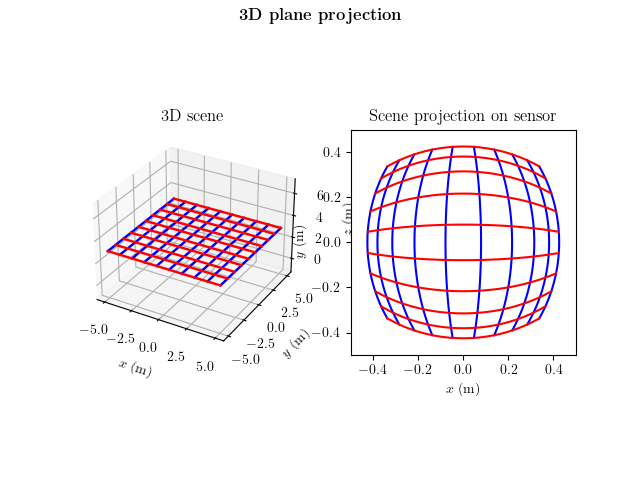
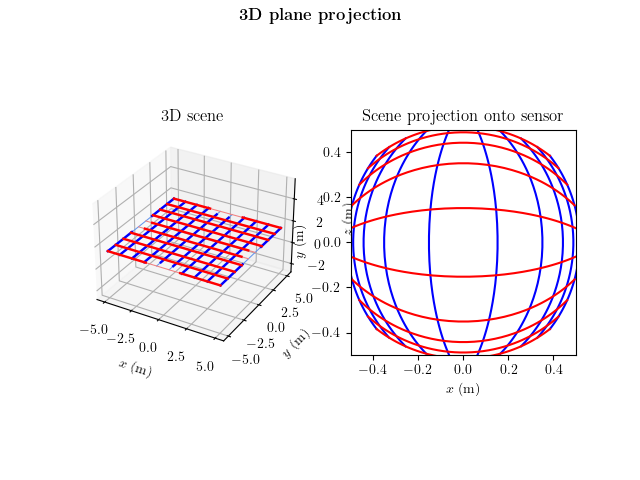
[DEVMINOR] fix typo

diff --git a/sicali/camera_model.py b/sicali/camera_model.py
@@ -266,7 +266,7 @@ class CameraModel:
             ax_scene.set_ylabel(r"$y$ (m)")
             ax_scene.set_zlabel(r"$z$ (m)")
 
-            ax_proj.set_title(r"Scene projection on sensor")
+            ax_proj.set_title(r"Scene projection onto sensor")
             ax_proj.set_xlabel(r"$x$ (m)")
             ax_proj.set_ylabel(r"$y$ (m)")
         else:
@@ -277,7 +277,7 @@ class CameraModel:
             ax_scene.set_ylabel(f"y (m)")
             ax_scene.set_zlabel(f"z (m)")
 
-            ax_proj.set_title(f"Scene projection on sensor")
+            ax_proj.set_title(f"Scene projection onto sensor")
             ax_proj.set_xlabel(f"x (m)")
             ax_proj.set_ylabel(f"y (m)")
 
@@ -417,7 +417,7 @@ class CameraModel:
             ax_scene.set_ylabel(r"$y$ (m)")
             ax_scene.set_zlabel(r"$z$ (m)")
 
-            ax_proj.set_title(r"Scene projection on sensor")
+            ax_proj.set_title(r"Scene projection onto sensor")
             ax_proj.set_xlabel(r"$x$ (m)")
             ax_proj.set_ylabel(r"$y$ (m)")
         else:
@@ -428,7 +428,7 @@ class CameraModel:
             ax_scene.set_ylabel(f"y (m)")
             ax_scene.set_zlabel(f"z (m)")
 
-            ax_proj.set_title(f"Scene projection on sensor")
+            ax_proj.set_title(f"Scene projection onto sensor")
             ax_proj.set_xlabel(f"x (m)")
             ax_proj.set_ylabel(f"y (m)")
 
@@ -607,7 +607,7 @@ class CameraModel:
             ax_scene.set_ylabel(r"$y$ (m)")
             ax_scene.set_zlabel(r"$z$ (m)")
 
-            ax_proj.set_title(r"Scene projection on sensor")
+            ax_proj.set_title(r"Scene projection onto sensor")
             ax_proj.set_xlabel(r"$x$ (m)")
             ax_proj.set_ylabel(r"$y$ (m)")
         else:
@@ -618,7 +618,7 @@ class CameraModel:
             ax_scene.set_ylabel(f"y (m)")
             ax_scene.set_zlabel(f"z (m)")
 
-            ax_proj.set_title(f"Scene projection on sensor")
+            ax_proj.set_title(f"Scene projection onto sensor")
             ax_proj.set_xlabel(f"x (m)")
             ax_proj.set_ylabel(f"y (m)")
 
@@ -720,7 +720,7 @@ class CameraModel:
             ax_sensor.set_xlabel(r"$x$ (m)")
             ax_sensor.set_ylabel(r"$y$ (m)")
 
-            ax_prop.set_title(r"Pixel grid retro-projection on a sphere")
+            ax_prop.set_title(r"Pixel grid retro-projection onto a sphere")
             ax_prop.set_xlabel(r"$x$ (m)")
             ax_prop.set_ylabel(r"$y$ (m)")
             ax_prop.set_zlabel(r"$z$ (m)")
@@ -731,7 +731,7 @@ class CameraModel:
             ax_sensor.set_xlabel(f"x (m)")
             ax_sensor.set_ylabel(f"y (m)")
 
-            ax_prop.set_title(f"Pixel grid retro-projection on a sphere")
+            ax_prop.set_title(f"Pixel grid retro-projection onto a sphere")
             ax_prop.set_xlabel(f"x (m)")
             ax_prop.set_ylabel(f"y (m)")
             ax_prop.set_zlabel(f"z (m)")

diff --git a/sicali/lens_model.py b/sicali/lens_model.py
@@ -98,7 +98,7 @@ class LensModel(abc.ABC):
         return radius > self._fov_projection_radius
 
     def incidence_to_projection_radius(self, incidence: float) -> float:
-        """Lens projection model, convert an incidence to a projection radius.
+        """Lens projection model, convert an incidence into a projection radius.
 
         Args:
             incidence: incidence (elevation) of the direction to project [rad]
@@ -112,7 +112,7 @@ class LensModel(abc.ABC):
             return self._incidence_to_projection_radius(incidence)
 
     def projection_radius_to_incidence(self, radius: float) -> float:
-        """Lens invert projection model, convert a projection radius to an incidence.
+        """Lens invert projection model, convert a projection radius into an incidence.
 
         Args:
             radius: projection radius on the sensor [m]
@@ -126,7 +126,7 @@ class LensModel(abc.ABC):
             return self._projection_radius_to_incidence(radius)
 
     def project(self, direction: SphericalDirection3D) -> CartesianCoordinate2D:
-        """Lens projection of the input 3D direction on the sensor.
+        """Lens projection of the input 3D direction onto the sensor.
 
         The z-axis is considered as the optical, i.e. the incidence is the elevation.
 
@@ -148,7 +148,7 @@ class LensModel(abc.ABC):
             return CartesianCoordinate2D(x_proj, y_proj)
 
     def propagate(self, coord_sensor: CartesianCoordinate2D) -> SphericalDirection3D:
-        """3D direction projected by the lens on the input coordinates on the sensor.
+        """3D direction projected by the lens on the input coordinates onto the sensor.
 
         The z-axis is considered as the optical, i.e. the incidence is the elevation.
 

diff --git a/main.py b/main.py
@@ -9,7 +9,7 @@ def main():
 
     # Create a camera model
     camera_config = CameraConfig(
-        focal_adjustment=FocalAdjustment.INSCRIBE_FOV,
+        focal_adjustment=FocalAdjustment.CIRCUMSCRIBE_SENSOR,
         lens_fov=math.radians(220),
         lens_focal=1,
         lens_model=LensModelType.EQUISOLID,
@@ -22,7 +22,7 @@ def main():
     # Simulate the projection model of the camera
     camera_model.display_lens_model(use_tex=USE_TEX)
     camera_model.display_plane_projection(
-        plane_size=10, plane_depth=3, line_count=10, use_tex=USE_TEX
+        plane_size=10, plane_depth=1.5, line_count=10, use_tex=USE_TEX
     )
     camera_model.display_latitude_longitude_projection(line_count=12, use_tex=USE_TEX)
     camera_model.display_sphere_slices_projection(line_count=12, use_tex=USE_TEX)
